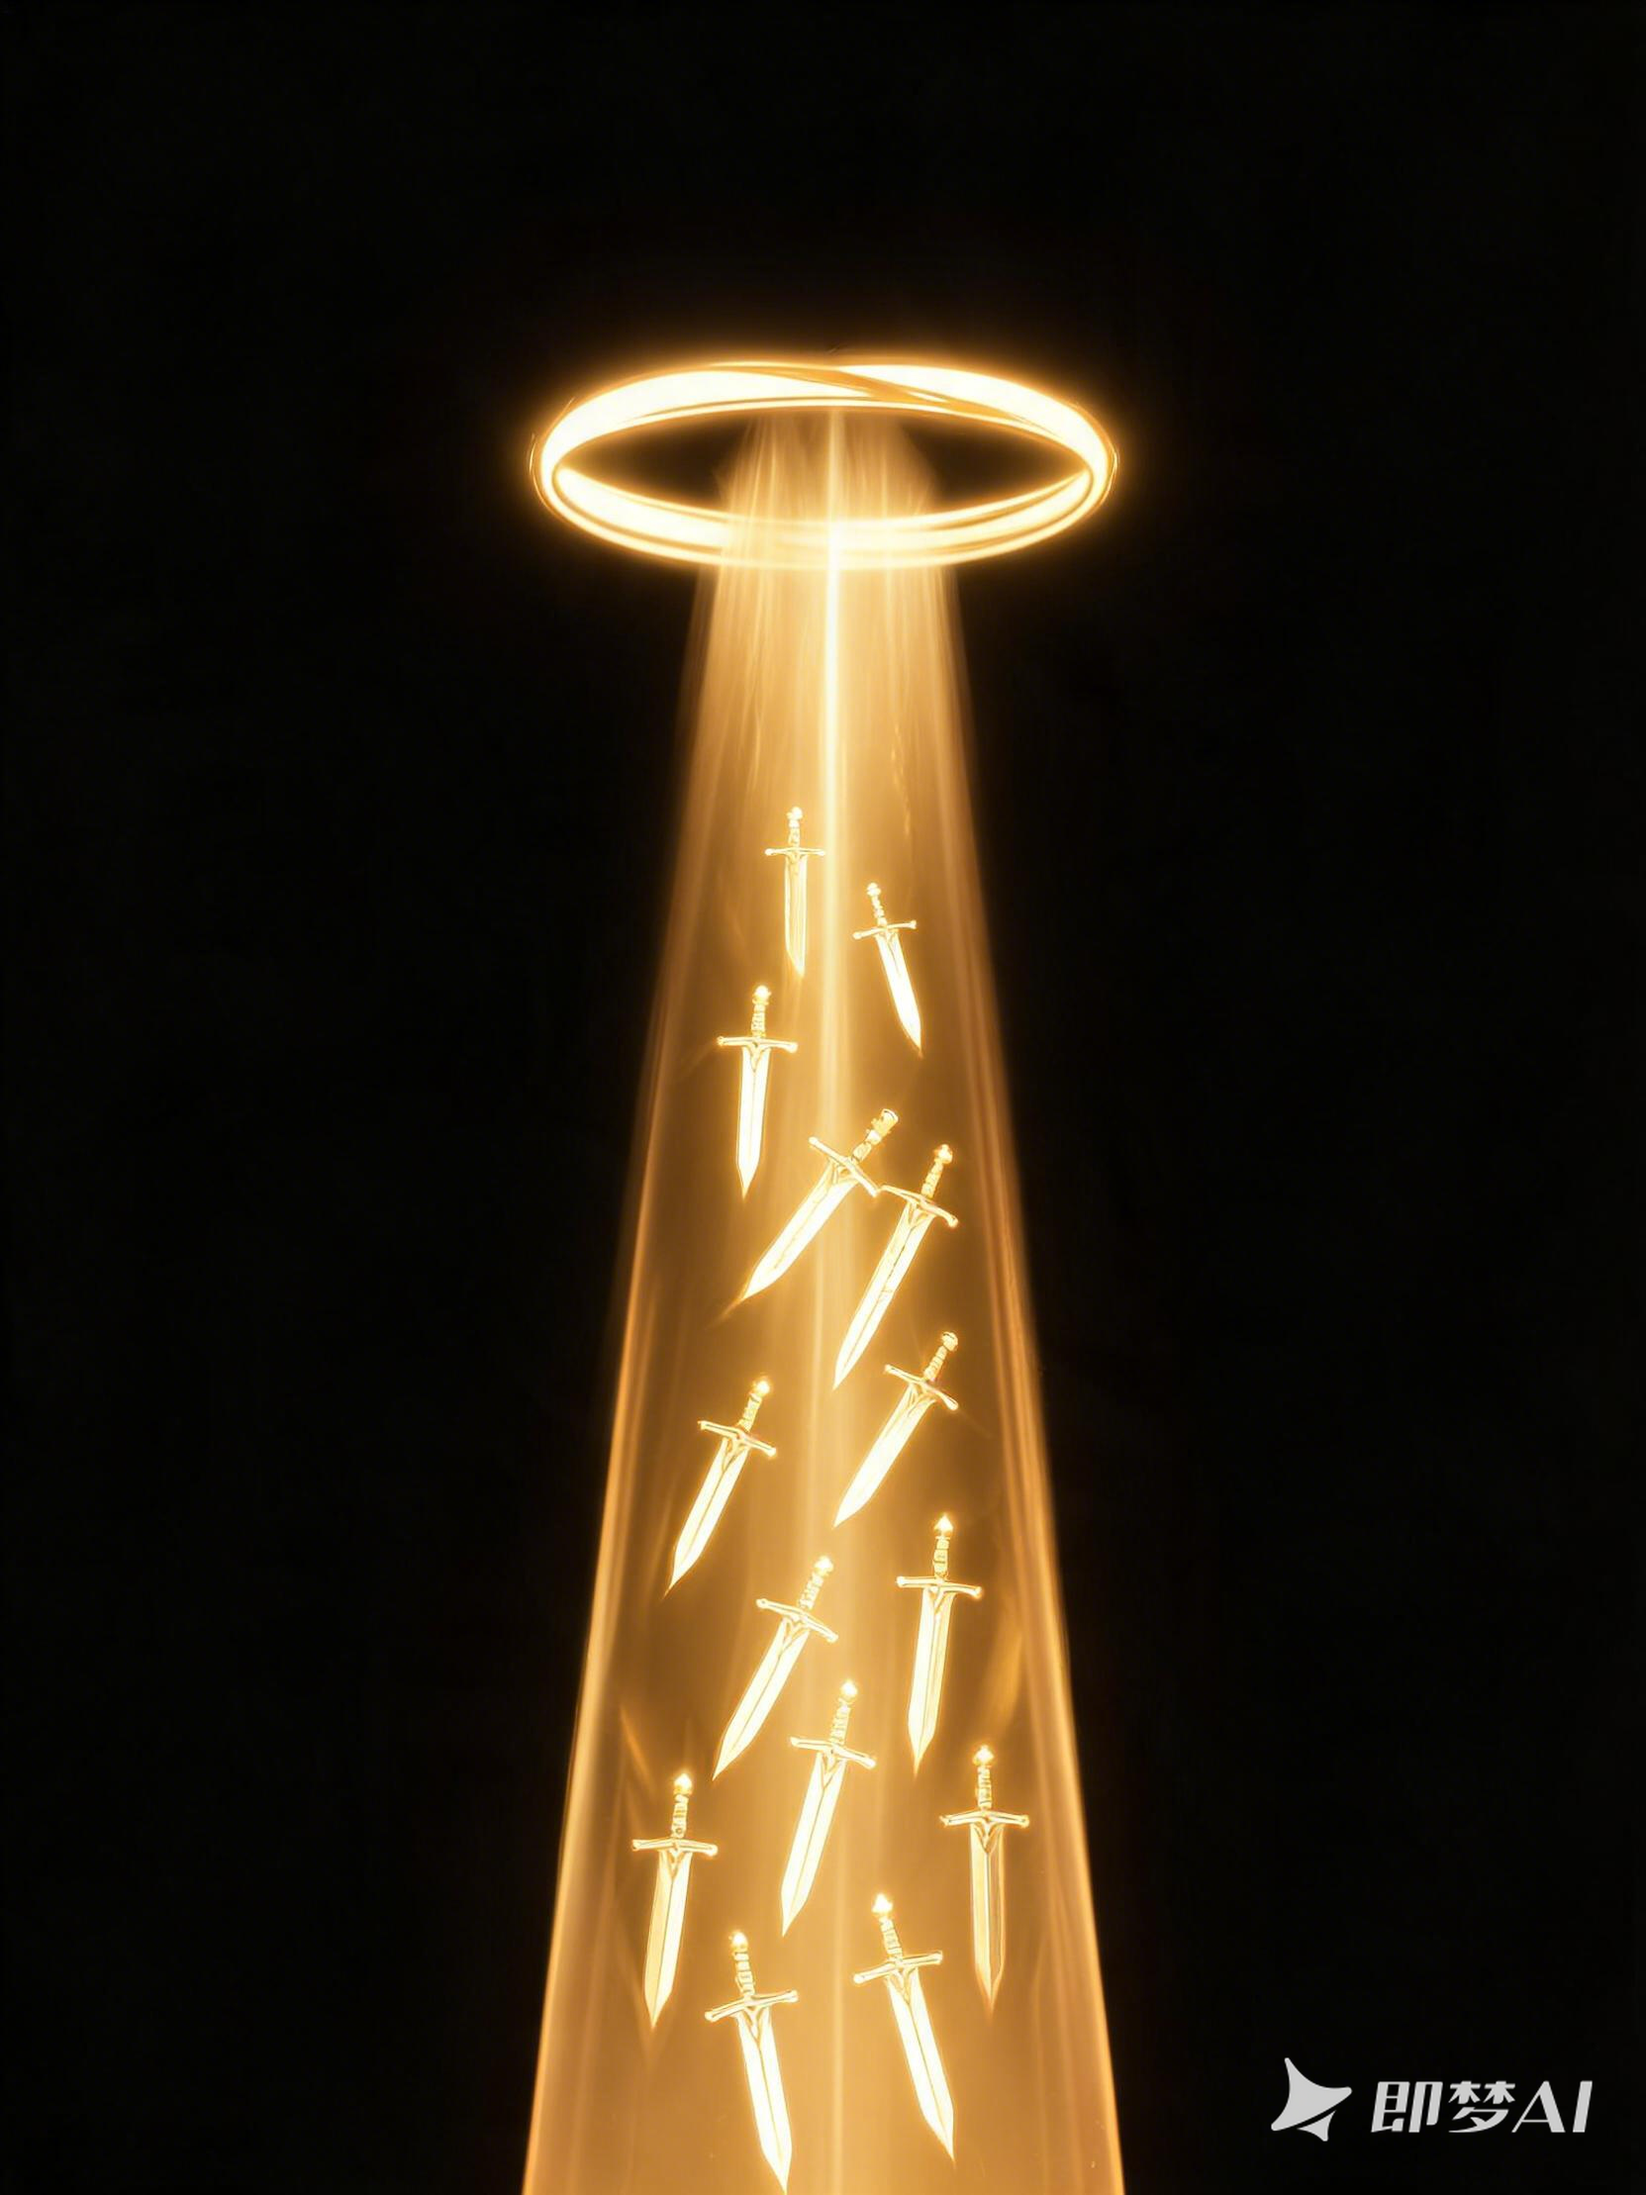
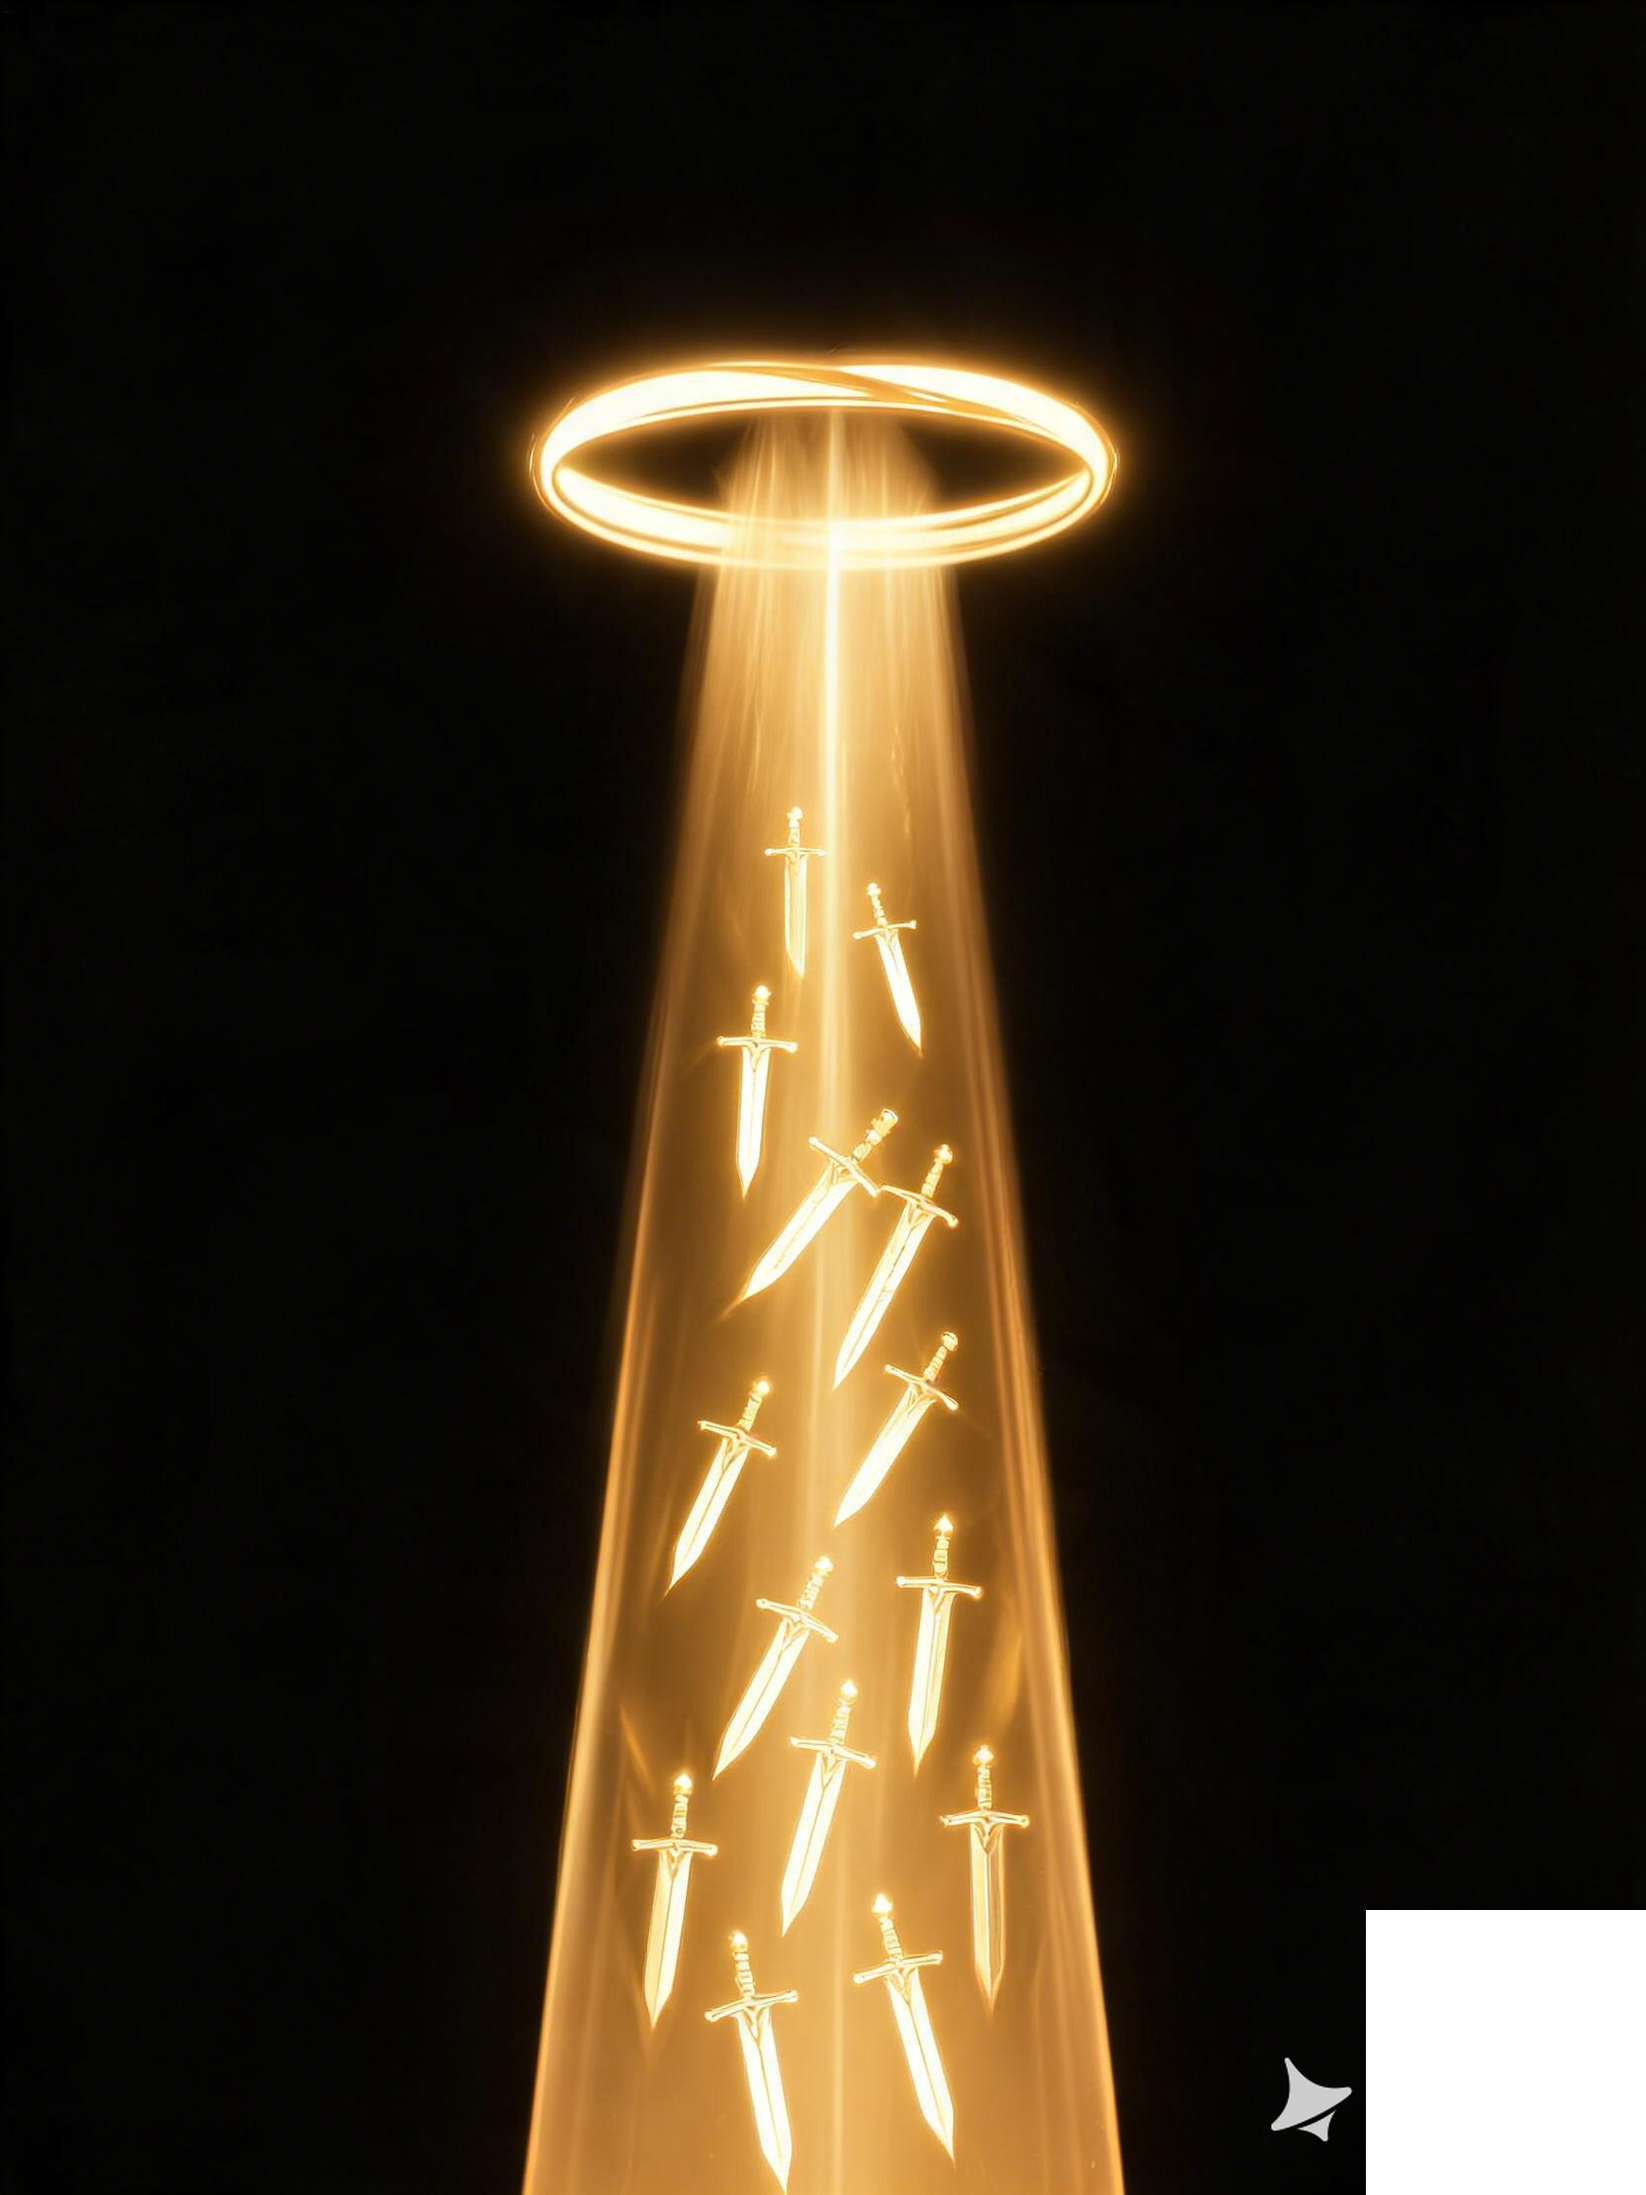
V0.3.0: drawFx 雪碧图帧播放器——特效动画化支持
- assets.js: drawFx(基名,_sheet横排雪碧图)按帧播放, 无sheet回退静态图; ASSET_LIST补sheet名
- 剑气斩波/新星爆发/剑域龙卷 接入drawFx(一次性/循环剪辑)
- fx_tornado/fx_tierup 擦除AI水印
- 文档: 怪物动画与后续强化.md 新增 5.5 特效动画化章节(黑底视频化四步法/逐特效提示词/帧规格/引擎规格)

Changed region(s): [[0.828, 0.8711, 1.0, 1.0]]

diff --git a/js/assets.js b/js/assets.js
@@ -16,7 +16,8 @@ const ASSET_LIST = [
   'boss_heishan', 'boss_heishan_rage',             // Boss 两形态
   'pickup_sword2', 'pickup_rage', 'pickup_shield', // 掉落道具五枚
   'pickup_nova', 'pickup_vacuum',
-  'fx_slash', 'fx_nova', 'fx_tornado', 'fx_tierup', 'fx_splat', // 技能特效（待接入演出）
+  'fx_slash', 'fx_nova', 'fx_tornado', 'fx_tierup', 'fx_splat', // 技能特效
+  'fx_slash_sheet', 'fx_nova_sheet', 'fx_tornado_sheet', 'fx_tierup_sheet', // 特效动画雪碧图（可选）
   'tile_ch1',                                       // 俯视无缝地砖（Survivor 化用）
   'deco_lantern', 'deco_incense', 'deco_bamboo',    // 地图装饰件（待撒点渲染）
   'deco_stele', 'deco_jar',
@@ -46,6 +47,33 @@ function drawSprite(ctx, name, x, y, o = {}) {
   if (o.alpha !== undefined) ctx.globalAlpha *= o.alpha;
   if (o.additive) ctx.globalCompositeOperation = 'lighter';
   ctx.drawImage(img, -img.width * k / 2, -img.height * k / 2, img.width * k, img.height * k);
+  ctx.restore();
+  return true;
+}
+
+// 特效雪碧图帧播放：存在 基名_sheet.png（横排正方形单帧）→ 按帧播放；否则回退静态 基名.png
+// o: {size, angle, additive, alpha, t(剪辑时间), fps, loop}
+function drawFx(ctx, base, x, y, o = {}) {
+  const size = o.size || 40;
+  ctx.save();
+  ctx.translate(x, y);
+  if (o.angle) ctx.rotate(o.angle);
+  if (o.additive) ctx.globalCompositeOperation = 'lighter';
+  if (o.alpha !== undefined) ctx.globalAlpha *= o.alpha;
+  const sheet = Assets.img(base + '_sheet');
+  if (sheet) {
+    const N = Math.max(1, Math.round(sheet.width / sheet.height));
+    const fw = sheet.width / N;
+    const fps = o.fps || 10;
+    const f = o.loop ? Math.floor((o.t || 0) * fps) % N
+                     : Math.min(N - 1, Math.floor((o.t || 0) * fps));
+    ctx.drawImage(sheet, f * fw, 0, fw, sheet.height, -size / 2, -size / 2, size, size);
+    ctx.restore();
+    return true;
+  }
+  const st = Assets.img(base);
+  if (!st) { ctx.restore(); return false; }
+  ctx.drawImage(st, -size / 2, -size / 2, size, size);
   ctx.restore();
   return true;
 }

diff --git a/js/skills.js b/js/skills.js
@@ -169,16 +169,22 @@ const Skills = {
       ctx.strokeStyle = p.tier.color; ctx.lineWidth = 1.5;
       ctx.beginPath(); ctx.arc(p.x, p.y, p.auraR, 0, TAU); ctx.stroke();
       ctx.globalAlpha = 1;
-      const tor = Assets.img('fx_tornado'); // 剑气龙卷贴图
-      if (tor) {
-        ctx.save();
-        ctx.globalCompositeOperation = 'lighter';
-        ctx.globalAlpha = 0.5;
-        ctx.translate(p.x, p.y);
-        ctx.rotate(game.time * 1.5);
-        const ts = p.auraR * 2.4;
-        ctx.drawImage(tor, -ts / 2, -ts / 2, ts, ts);
-        ctx.restore();
+      // 剑气龙卷：雪碧图循环优先，回退静态图
+      if (!drawFx(ctx, 'fx_tornado', p.x, p.y, {
+        size: p.auraR * 2.4, additive: true, alpha: 0.5,
+        t: game.time, fps: 10, loop: true,
+      })) {
+        const tor = Assets.img('fx_tornado');
+        if (tor) {
+          ctx.save();
+          ctx.globalCompositeOperation = 'lighter';
+          ctx.globalAlpha = 0.5;
+          ctx.translate(p.x, p.y);
+          ctx.rotate(game.time * 1.5);
+          const tsz = p.auraR * 2.4;
+          ctx.drawImage(tor, -tsz / 2, -tsz / 2, tsz, tsz);
+          ctx.restore();
+        }
       }
     }
     if (p.orbPos) {
@@ -196,10 +202,11 @@ const Skills = {
       }
     }
     for (const w of game.waves.list) {
-      // fx_slash 贴图优先：月牙剑气随方向旋转
-      if (drawSprite(ctx, 'fx_slash', w.x, w.y, {
+      // fx_slash 雪碧图动画优先（无 sheet 回退静态图/程序化月牙）
+      if (drawFx(ctx, 'fx_slash', w.x, w.y, {
         size: w.r * 4.4, angle: w.dir + Math.PI / 4,
         additive: true, alpha: clamp(w.life / 0.35, 0, 1) * 0.95,
+        t: 1.1 - w.life, fps: 12,
       })) continue;
       ctx.save();
       ctx.translate(w.x, w.y); ctx.rotate(w.dir);

diff --git a/docs/怪物动画与后续强化.md b/docs/怪物动画与后续强化.md
@@ -128,6 +128,32 @@
 
 ## 5. 代码接入规格（AI 实现用）
 
+
+## 5.5 特效动画化（黑底序列帧，最简单的动画管线）
+
+> 特效是黑底发光素材 + 引擎 additive 绘制——**黑底自动消失，完全不需要抠图**。
+> 流程比怪物动画少两步：黑底生成视频 → 抽帧 → 拼横排 → 丢 assets 即自动播放动画。
+
+### 5.5.1 生成流程（四步）
+1. **黑底视频化**：Seed 系工具输入 §4.7 同款格式提示词（黑底、镜头固定、单个特效动作）；
+2. **抽帧**：`ffmpeg -i fx.mp4 -vf fps=12 frames/f_%02d.png`（或浏览器抽帧）；
+3. **挑帧拼横排**：一次性特效（新星/斩击/光柱）挑 3~4 帧连续动作；循环特效（龙卷）挑 4 帧均布；黑底直接用，**不抠图**；
+4. **命名放入 assets**：`fx_slash_sheet.png`（= 4帧 × 256 横排，单帧正方形）——引擎检测到 `_sheet` 自动按帧播放，没有 sheet 就用静态图兜底。
+
+### 5.5.2 每个特效的生成提示词与帧规格
+| 特效 | 视频提示词（黑底+镜头固定前缀省略） | sheet 文件 | 帧数×单帧 | 播放 |
+|---|---|---|---|---|
+| 剑气斩 fx_slash | 一道青色月牙形剑气横扫一次，光刃拖尾渐隐，1秒 | fx_slash_sheet.png | 4×256 | 一次性 12fps |
+| 新星 fx_nova | 中心爆发一颗青白色新星，光芒放射扩散后消散，1秒 | fx_nova_sheet.png | 4×256 | 一次性 12fps |
+| 龙卷 fx_tornado | 一根青金色龙卷持续旋转，循环，2秒 | fx_tornado_sheet.png | 4×256 | 循环 10fps |
+| 晋升光柱 fx_tierup | 一根金色光柱升起，粒子上飘顶部散开，1秒 | fx_tierup_sheet.png | 4×256 | 一次性 12fps |
+| 妖血渍 fx_splat | 一团绿色黏液泼溅炸开残留，0.5秒 | （静态即可，渍痕不动） | — | 静态 |
+
+### 5.5.3 引擎支持（已实装）
+`drawFx(ctx, 基名, x, y, {size, angle, additive, alpha, t, fps, loop})`：
+- 存在 `基名_sheet.png`（横排正方形单帧）→ 按帧播放（一次性播完停在末帧，循环类取模）；
+- 不存在 → 回退静态 `基名.png`（黑底 additive 或带 alpha 的透明底均可）；
+- 已接入四处：剑气斩波（一次性）、新星爆发（一次性）、晋升光柱（一次性）、剑域龙卷（循环）。
 1. `ASSET_LIST` 追加上表文件名（每段动作一张雪碧图：`_idle` / `_run` / `_atk` / `_slam`…）；
 2. 轻量帧动画播放器：`frame = Math.floor(clipT * fps) % N`，从雪碧图取 `srcX = frame * 帧宽`；锚点=底部中心（脚贴地），按运动方向水平翻转（`ctx.scale(-1,1)`）；
 3. **状态剪辑映射**（对应管线 1 的分段）：`待机→_idle`、`追击→_run`、`windup/攻击→_atk`（播一遍后回 _run）、`待机转跑→_idle_to_run`（插在静止→移动切换处，播完接 _run）；
